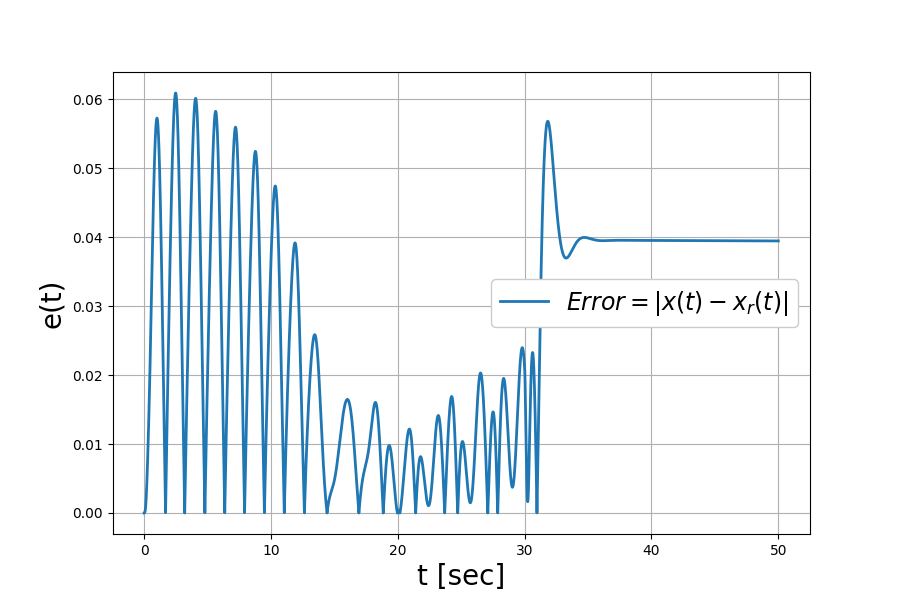
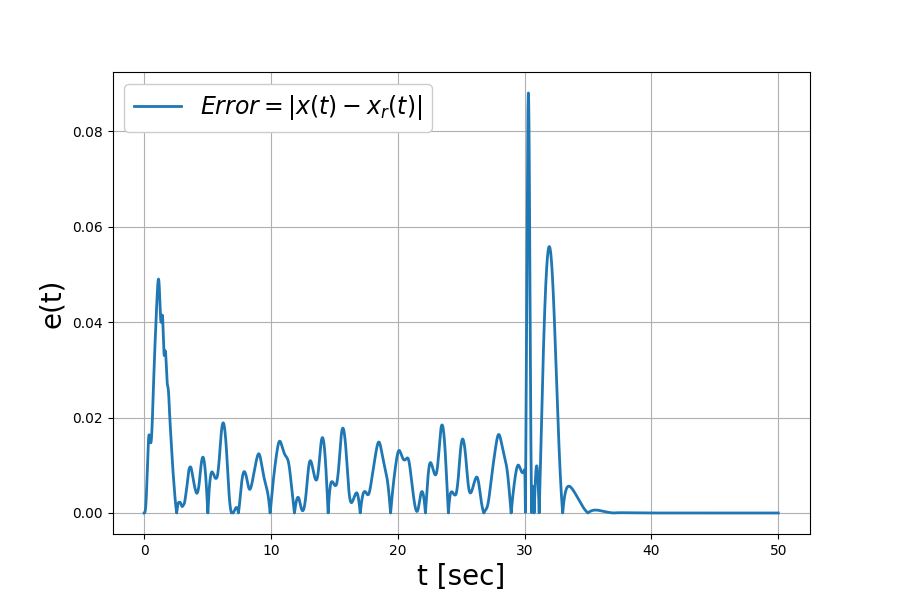
Parameter estimation added

diff --git a/Model Reference Adaptive Control - Unknown Parameters.py b/Model Reference Adaptive Control - Unknown Parameters.py
@@ -4,7 +4,7 @@ import matplotlib.pyplot as plt
 import calculations as calc
 
 
-def process_with_unknown_params(System, t, k1, k2, c1, c2, m, K, lamda0, k_m1, c_m1, gamma):
+def process_with_unknown_params(System, t, k1, k2, c1, c2, m, K, lamda0, m_m, k_m1, c_m1, gamma):
     # Array represents the initial state space model: [x0, x0_dot]
     x = System[0]
     x_dot = System[1]
@@ -19,7 +19,7 @@ def process_with_unknown_params(System, t, k1, k2, c1, c2, m, K, lamda0, k_m1, c
     # Reference signal to the model reference output
     r = 5 * np.sin(2 * t)
     if t > 30:
-        r = -3
+        r = 3
 
     # # Step Response
     # r = 2
@@ -28,8 +28,8 @@ def process_with_unknown_params(System, t, k1, k2, c1, c2, m, K, lamda0, k_m1, c
     xm_ddot = -(k_m1 / m_m) * xm - (c_m1 / m_m) * xm_dot + r / m_m
 
     # controlled input for the model to track the output of the reference model
-    u, xr_ddot, z = calc.controller(x, xm, x_dot, xm_dot, xm_ddot, m_hat, lamda0, K, k1_hat, k2_hat, c1_hat, c2_hat,
-                                    params="unknown")
+    u, xr_ddot, z = calc.controller(x, xm, x_dot, xm_dot, xm_ddot, m_hat, lamda0,
+                                    K, k1_hat, k2_hat, c1_hat, c2_hat, params="unknown")
 
     # Saving data to plot the input u
     time_lst.append(t)
@@ -44,6 +44,64 @@ def process_with_unknown_params(System, t, k1, k2, c1, c2, m, K, lamda0, k_m1, c
     return [x_dot, x_ddot, xm_dot, xm_ddot, m_hat_dot, k1_hat_dot, k2_hat_dot, c1_hat_dot, c2_hat_dot]
 
 
+def plot_var(m, m_est, k1, k1_est, k2, k2_est, c1, c1_est, c2, c2_est):
+
+    legend_size = 18
+    axis_font_size = 20
+
+    plt.figure(figsize=(14, 6))
+    plt.xlabel("t [sec]", fontsize=axis_font_size)
+    plt.ylabel("m [kg]", fontsize=axis_font_size)
+    plt.plot(t, m, label=r"$m$", linewidth=2)
+    plt.plot(t, m_est, label=r"$\hat{m}$", linewidth=2)
+    plt.legend(prop={'size': legend_size}, framealpha=1)
+    plt.grid()
+    plt.savefig(f'images/Q4/m estimation.png')
+    plt.close()
+
+    plt.figure(figsize=(14, 6))
+    plt.xlabel("t [sec]", fontsize=axis_font_size)
+    plt.ylabel("k1 [N/m]", fontsize=axis_font_size)
+    plt.plot(t, k1, label=r"$k_1$", linewidth=2)
+    plt.plot(t, k1_est, label=r"$\hat{k_1}$", linewidth=2)
+    plt.legend(prop={'size': legend_size}, framealpha=1)
+    plt.grid()
+    plt.savefig(f'images/Q4/k1 estimation.png')
+    plt.close()
+
+    plt.figure(figsize=(14, 6))
+    plt.xlabel("t [sec]", fontsize=axis_font_size)
+    plt.ylabel("k2 [$N/m^3$]", fontsize=axis_font_size)
+    plt.plot(t, k2, label=r"$k_2$", linewidth=2)
+    plt.plot(t, k2_est, label=r"$\hat{k_2}$", linewidth=2)
+    plt.legend(prop={'size': legend_size}, framealpha=1)
+    plt.grid()
+    plt.savefig(f'images/Q4/k2 estimation.png')
+    plt.close()
+
+    plt.figure(figsize=(14, 6))
+    plt.xlabel("t [sec]", fontsize=axis_font_size)
+    plt.ylabel("c1 [N/(m/sec)]", fontsize=axis_font_size)
+    plt.plot(t, c1, label=r"$c_1$", linewidth=2)
+    plt.plot(t, c1_est, label=r"$\hat{c_1}$", linewidth=2)
+    plt.legend(prop={'size': legend_size}, framealpha=1)
+    plt.grid()
+    plt.savefig(f'images/Q4/c1 estimation.png')
+    plt.close()
+
+    plt.figure(figsize=(14, 6))
+    plt.xlabel("t [sec]", fontsize=axis_font_size)
+    plt.ylabel("c2 [$N/(m/sec)^2$]", fontsize=axis_font_size)
+    plt.plot(t, c2, label=r"$c_2$", linewidth=2)
+    plt.plot(t, c2_est, label=r"$\hat{c_2}$", linewidth=2)
+    plt.legend(prop={'size': legend_size}, framealpha=1)
+    plt.grid()
+    plt.savefig(f'images/Q4/c2 estimation.png')
+    plt.close()
+
+    return None
+
+
 # System definition
 k1, k2, c1, c2 = 98, 80, 15, 0.34  # Model constants
 m = 2  # Mass
@@ -54,7 +112,7 @@ u = 0
 
 # Reference definition
 m_m = 1  # Ref model mass
-k_m1, c_m1 = 70, 9  # Ref model constants
+k_m1, c_m1 = 3.8, 2.3  # Ref model constants
 xm0, xm0_dot = 0, 0  # Initial Conditions - Ref model
 
 # Initial Guess
@@ -73,16 +131,14 @@ t = np.arange(t_start, t_end + dt, dt)
 # Adaptive Controller Constants
 K = 1  # Constant
 lamda0 = 1  # Constant of the z system dynamics
-gamma = 200  # Adaptation gain
+gamma = 100  # Adaptation gain
 
 time_lst, input_lst = [], []
-# x0, x0_dot, xm0, xm0_dot = 0, 0, 0, 0  # Initial Conditions
 
 System = [x0, x0_dot, xm0, xm0_dot, m_ig, k_1_ig, k_2_ig, c_1_ig, c_2_ig]  # Initial conditions
 
-sys_response = odeint(process_with_unknown_params, System, t, args=(k1, k2, c1, c2, m, K, lamda0, k_m1, c_m1, gamma))
-print(sys_response[-1, :])
-# [x_dot, x_ddot, xm_dot, xm_ddot, m_hat_dot, k1_hat_dot, k2_hat_dot, c1_hat_dot, c2_hat_dot]
+sys_response = odeint(process_with_unknown_params, System, t,
+                      args=(k1, k2, c1, c2, m, K, lamda0, m_m, k_m1, c_m1, gamma))
 
 
 # Plot results
@@ -98,7 +154,6 @@ plt.title("Reference Tracking performance", fontsize=24)
 plt.grid()
 plt.savefig(f'images/Q4/Reference Tracking performance.png')
 plt.close()
-
 
 err = np.abs(sys_response[:, 0] - sys_response[:, 2])
 
@@ -120,3 +175,13 @@ plt.legend(prop={'size': 17}, framealpha=1)
 plt.grid()
 plt.savefig(f'images/Q4/Input.png')
 plt.close()
+
+
+actual_val = [m, k1, k2, c1, c2]
+actual_val_list = np.zeros((len(t), len(actual_val)))
+for index, val in enumerate(actual_val):
+    actual_val_list[:, index] = np.ones_like(t) * val
+
+plot_var(actual_val_list[:, 0], sys_response[:, 4], actual_val_list[:, 1], sys_response[:, 5],
+         actual_val_list[:, 2], sys_response[:, 6], actual_val_list[:, 3], sys_response[:, 7],
+         actual_val_list[:, 4], sys_response[:, 8])
